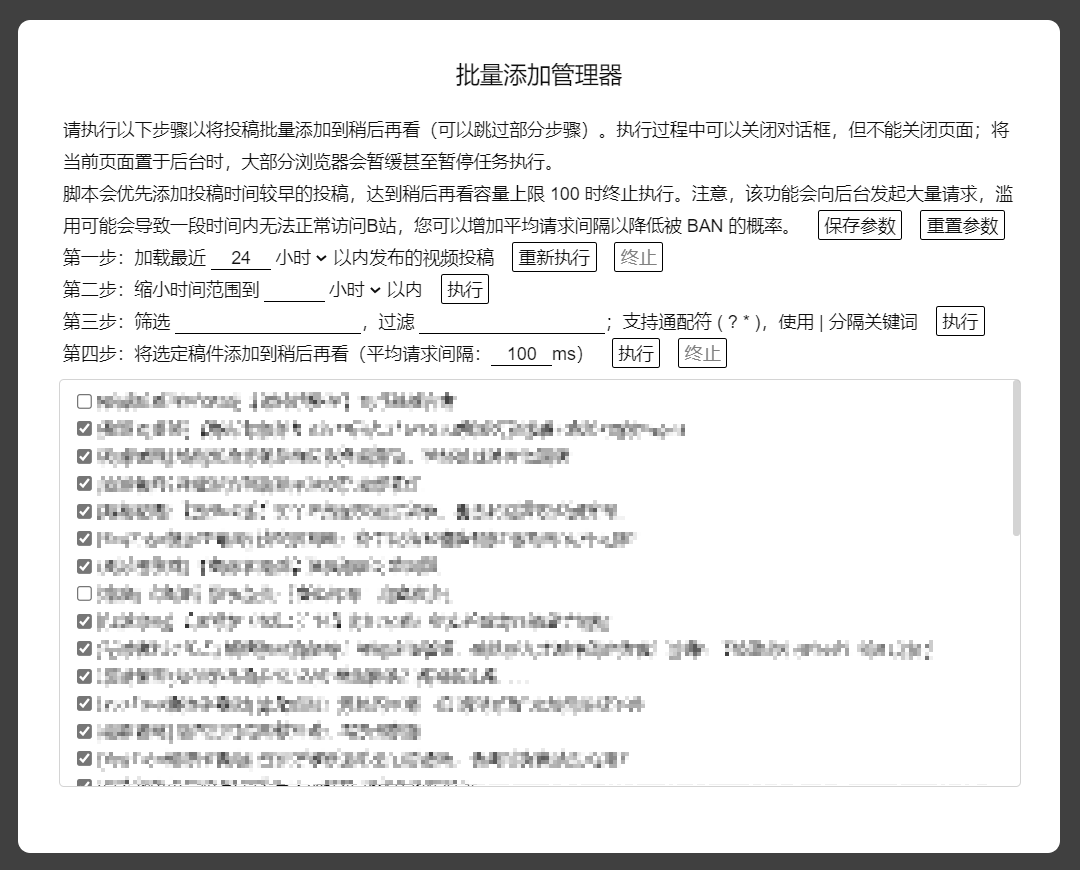
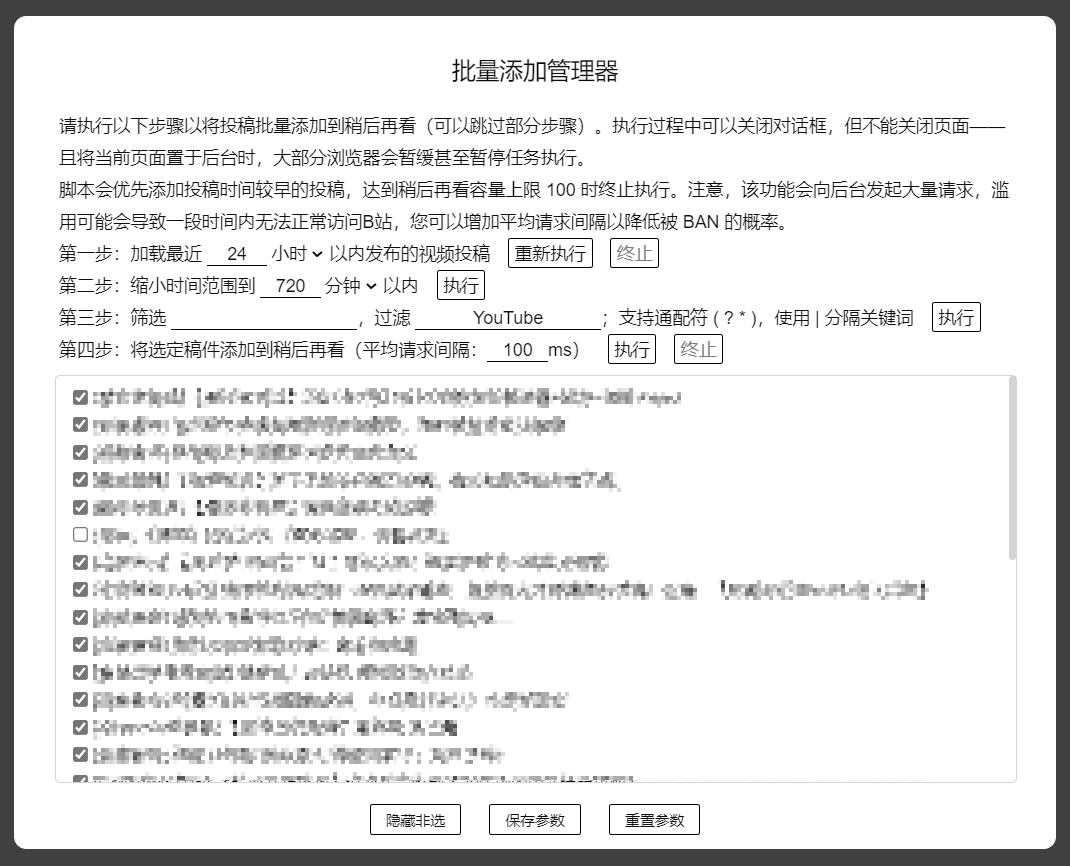
B站稍后再看功能增强 4.19.1.20210902
* 批量添加：优化一下 UI 之类的。

diff --git a/script/BilibiliWatchlaterPlus/BilibiliWatchlaterPlus.user.js b/script/BilibiliWatchlaterPlus/BilibiliWatchlaterPlus.user.js
@@ -1,6 +1,6 @@
 // ==UserScript==
 // @name            B站稍后再看功能增强
-// @version         4.19.0.20210902
+// @version         4.19.1.20210902
 // @namespace       laster2800
 // @author          Laster2800
 // @description     与稍后再看功能相关，一切你能想到和想不到的功能
@@ -4494,8 +4494,8 @@
             <div class="gm-batchAddManager-page gm-modal">
               <div class="gm-title">批量添加管理器</div>
               <div class="gm-comment">
-                <div>请执行以下步骤以将投稿批量添加到稍后再看（可以跳过部分步骤）。执行过程中可以关闭对话框，但不能关闭页面；将当前页面置于后台时，大部分浏览器会暂缓甚至暂停任务执行。</div>
-                <div>脚本会优先添加投稿时间较早的投稿，达到稍后再看容量上限 100 时终止执行。注意，该功能会向后台发起大量请求，滥用可能会导致一段时间内无法正常访问B站，您可以增加平均请求间隔以降低被 BAN 的概率。<button id="gm-save-batch-params">保存参数</button><button id="gm-reset-batch-params">重置参数</button></div>
+                <div>请执行以下步骤以将投稿批量添加到稍后再看（可以跳过部分步骤）。执行过程中可以关闭对话框，但不能关闭页面——且将当前页面置于后台时，大部分浏览器会暂缓甚至暂停任务执行。</div>
+                <div>脚本会优先添加投稿时间较早的投稿，达到稍后再看容量上限 100 时终止执行。注意，该功能会向后台发起大量请求，滥用可能会导致一段时间内无法正常访问B站，您可以增加平均请求间隔以降低被 BAN 的概率。</div>
                 <div>第一步：加载最近 <input id="gm-batch-1a" type="text" value="24"> <select id="gm-batch-1b" style="border:none;margin: 0 -4px">
                   <option value="${3600 * 24}">天</option>
                   <option value="3600" selected>小时</option>
@@ -4510,6 +4510,11 @@
                 <div>第四步：将选定稿件添加到稍后再看（平均请求间隔：<input id="gm-batch-4a" type="text" value="100">ms）<button id="gm-batch-4b">执行</button><button id="gm-batch-4c" disabled>终止</button></div>
               </div>
               <div class="gm-items"></div>
+              <div class="gm-bottom">
+                <button id="gm-unchecked-display">隐藏非选</button>
+                <button id="gm-save-batch-params">保存参数</button>
+                <button id="gm-reset-batch-params">重置参数</button>
+              </div>
             </div>
             <div class="gm-shadow"></div>
           `
@@ -4518,6 +4523,7 @@
             el[`id${id}`] = gm.el.batchAddManager.querySelector(`#gm-batch-${id}`)
           }
           el.items = gm.el.batchAddManager.querySelector('.gm-items')
+          el.uncheckedDisplay = gm.el.batchAddManager.querySelector('#gm-unchecked-display')
           el.saveParams = gm.el.batchAddManager.querySelector('#gm-save-batch-params')
           el.resetParams = gm.el.batchAddManager.querySelector('#gm-reset-batch-params')
           el.shadow = gm.el.batchAddManager.querySelector('.gm-shadow')
@@ -4538,6 +4544,20 @@
           gm.el.batchAddManager.fadeInDisplay = 'flex'
           el.shadow.addEventListener('click', () => script.closeMenuItem('batchAddManager'))
 
+          // 非选显示
+          el.uncheckedDisplay.hide = false
+          el.uncheckedDisplay.addEventListener('click', function() {
+            this.hide = !this.hide
+            this.textContent = this.hide ? '显示非选' : '隐藏非选'
+            const display = this.hide ? 'none' : ''
+            for (let i = 0; i < el.items.childElementCount; i++) {
+              const item = el.items.children[i]
+              if (!item.firstElementChild.checked) {
+                item.style.display = display
+              }
+            }
+          })
+
           // 参数
           el.saveParams.addEventListener('click', function() {
             const batchParams = {}
@@ -4549,7 +4569,7 @@
           })
           el.resetParams.addEventListener('click', function() {
             GM_deleteValue('batchParams')
-            api.message.create('重置成功，重新加载页面后参数将被初始化')
+            api.message.create('重置成功，重新加载页面后参数将加载默认值')
           })
 
           // 加载投稿
@@ -4592,7 +4612,8 @@
                     return // -> finally
                   }
                   const status = await _self.method.getVideoWatchlaterStatusByAid(String(info.aid))
-                  html = `<label class="gm-item" aid="${info.aid}" timestamp="${item.desc.timestamp}"><input type="checkbox"${status ? '' : ' checked'}> <span>[${info.owner.name}] ${info.title}</span></label>` + html
+                  const displayNone = status && el.uncheckedDisplay.hide
+                  html = `<label class="gm-item" aid="${info.aid}" timestamp="${item.desc.timestamp}"${displayNone ? ' style="display:none"' : ''}><input type="checkbox"${status ? '' : ' checked'}> <span>[${info.owner.name}] ${info.title}</span></label>` + html
                 }
                 el.items.insertAdjacentHTML('afterbegin', html)
                 await new Promise(resolve => setTimeout(resolve, 100)) // 多让点时间给其他线程，否则会出问题
@@ -4665,7 +4686,7 @@
             }
           })
 
-          // 添加
+          // 添加到稍后再看
           let stopAdd = false
           el.id4b.addEventListener('click', async function() {
             try {
@@ -4679,7 +4700,8 @@
               let available = 100 - (await gm.data.watchlaterListData()).length
               const checks = el.items.querySelectorAll('label:not(.gm-filtered) input')
               for (const check of checks) {
-                if (stopAdd || available <= 0) return // -> finally
+                if (stopAdd) return // -> finally
+                if (available <= 0) break
                 if (!check.checked) continue
                 const item = check.parentElement
                 const success = await _self.method.switchVideoWatchlaterStatus(item.getAttribute('aid'))
@@ -4700,7 +4722,6 @@
               gm.runtime.reloadWatchlaterListData = true
               window.dispatchEvent(new CustomEvent('reloadWatchlaterListData'))
             }
-
           })
           el.id4c.addEventListener('click', function() {
             stopAdd = true
@@ -5454,7 +5475,7 @@
             width: calc(100% - 2.5em * 2);
             height: 24em;
             padding: 0.4em 0;
-            margin: 0.5em 2.5em;
+            margin: 0 2.5em;
             font-size: 1.1em;
             border: 1px solid var(--${gm.id}-scrollbar-thumb-color);
             border-radius: 4px;
